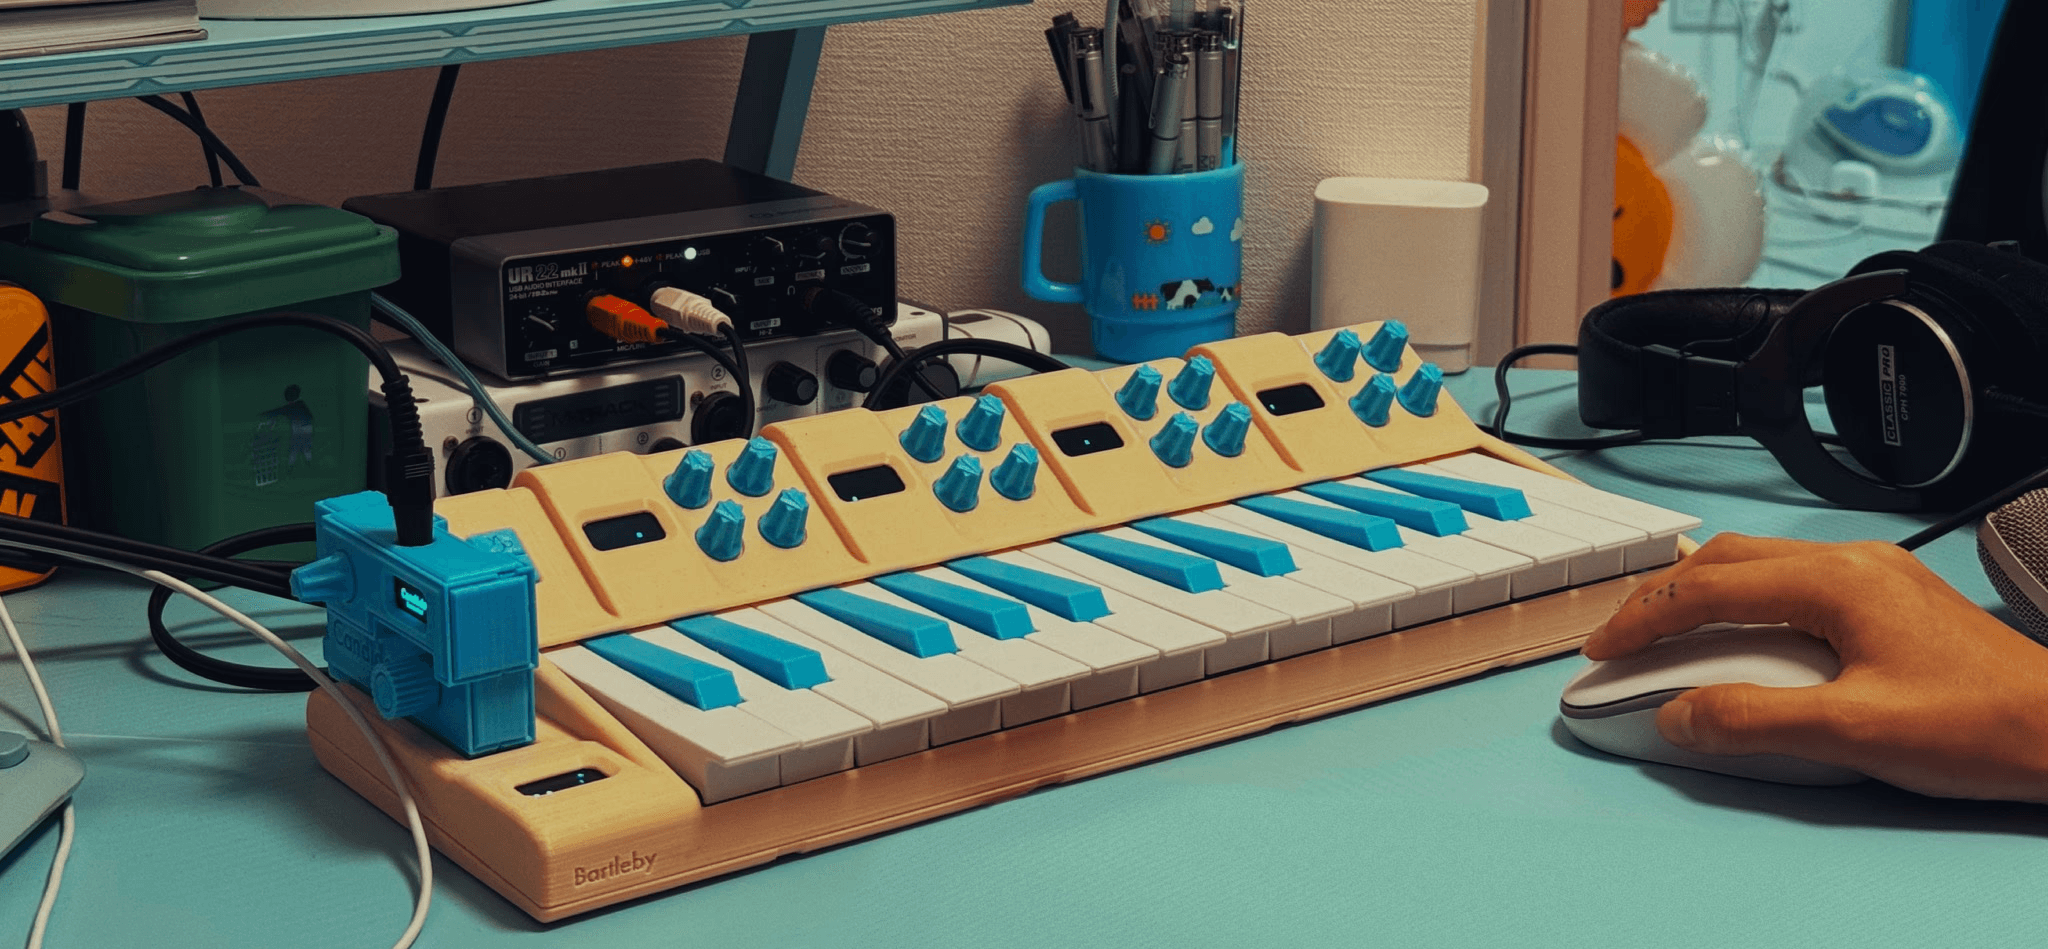
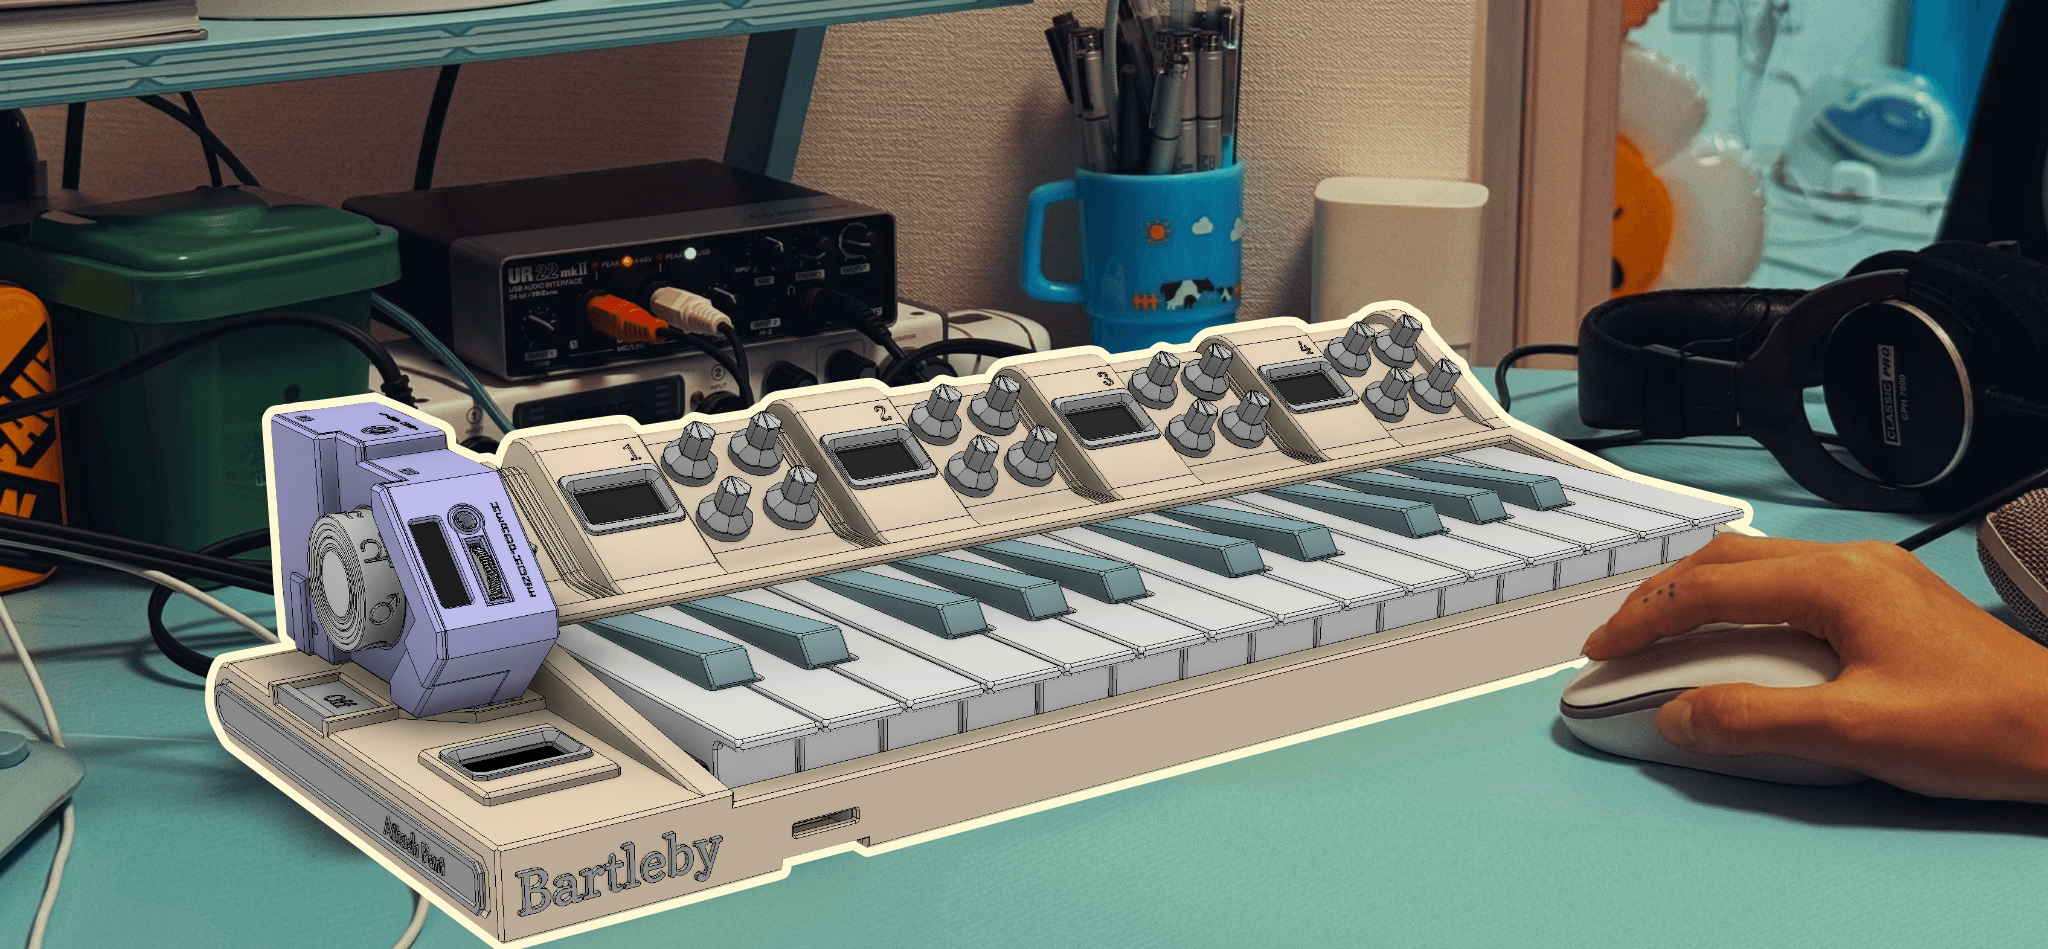
Update product images and add sprite animation support
- Replace diagram images with new square renders with cyan outlines
- Add sprite.js for frame-based animation (currently disabled)
- Update Bartleby features list formatting
- Add sprite player CSS styles

diff --git a/sprite.js b/sprite.js
@@ -1,0 +1,90 @@
+// Sprite Animation Player
+class SpritePlayer {
+  constructor(container) {
+    this.container = container;
+    this.frameCount = parseInt(container.dataset.frameCount);
+    this.framePath = container.dataset.framePath;
+    this.frameExt = container.dataset.frameExt;
+    this.currentFrame = 0;
+    this.frames = [];
+    this.isPlaying = true;
+    this.speed = 33; // ms per frame (30fps)
+    this.intervalId = null;
+
+    this.init();
+  }
+
+  init() {
+    // Preload all frames
+    for (let i = 0; i < this.frameCount; i++) {
+      const img = document.createElement('img');
+      const frameNum = i.toString().padStart(2, '0');
+      img.src = `${this.framePath}${frameNum}${this.frameExt}`;
+      img.alt = `Frame ${i}`;
+      if (i === 0) img.classList.add('active');
+      this.container.appendChild(img);
+      this.frames.push(img);
+    }
+
+    // Start animation
+    this.play();
+
+    // Hover: speed up (disabled for testing)
+    // this.container.addEventListener('mouseenter', () => this.setSpeed(16));
+    // this.container.addEventListener('mouseleave', () => this.setSpeed(33));
+  }
+
+  play() {
+    if (this.intervalId) return;
+    this.intervalId = setInterval(() => this.nextFrame(), this.speed);
+  }
+
+  pause() {
+    if (this.intervalId) {
+      clearInterval(this.intervalId);
+      this.intervalId = null;
+    }
+  }
+
+  setSpeed(ms) {
+    this.speed = ms;
+    this.pause();
+    this.play();
+  }
+
+  nextFrame() {
+    const prevFrame = this.currentFrame;
+    this.currentFrame = (this.currentFrame + 1) % this.frameCount;
+    // Add new frame BEFORE removing old to prevent flicker
+    this.frames[this.currentFrame].classList.add('active');
+    this.frames[prevFrame].classList.remove('active');
+  }
+
+  goToFrame(index) {
+    const prevFrame = this.currentFrame;
+    this.currentFrame = index % this.frameCount;
+    this.frames[this.currentFrame].classList.add('active');
+    this.frames[prevFrame].classList.remove('active');
+  }
+
+  // Seek to frame with animation (rapid advance)
+  seekToFrame(target, seekSpeed = 30) {
+    this.pause();
+    const advance = () => {
+      if (this.currentFrame === target) {
+        this.play();
+        return;
+      }
+      this.nextFrame();
+      setTimeout(advance, seekSpeed);
+    };
+    advance();
+  }
+}
+
+// Initialize all sprite players on page load
+document.addEventListener('DOMContentLoaded', () => {
+  document.querySelectorAll('.sprite-player').forEach(el => {
+    new SpritePlayer(el);
+  });
+});

diff --git a/index.html b/index.html
@@ -26,9 +26,8 @@
         <p class="product-tagline">Two octave MIDI2.0 MPE USB controller</p>
         <div class="product-content">
           <ul class="product-features">
-            <li>Per Key:</li>
-            <li>• Pressure</li>
-            <li>• Pitch Bend</li>
+            <li>Key Pressure</li>
+            <li>Key Pitch Bend</li>
             <li>Octave ↑↓</li>
             <li>Belt Loops</li>
             <li>16 CC knobs</li>
@@ -37,7 +36,7 @@
             <li>USB MIDI2.0</li>
           </ul>
           <div class="product-image">
-            <img src="images/bartleby-diagram.png" alt="Bartleby diagram">
+            <img src="images/bartleby-square.png" alt="Bartleby diagram">
           </div>
         </div>
       </article>
@@ -57,7 +56,10 @@
             <li>USB MIDI2.0</li>
           </ul>
           <div class="product-image">
-            <img src="images/candide-diagram.png" alt="Candide diagram">
+            <img src="images/candide-square.png" alt="Candide diagram">
+            <!-- Sprite animation available:
+            <div class="sprite-player" id="candide-sprite" data-frame-count="61" data-frame-path="images/candide-sprite/frame_" data-frame-ext=".png"></div>
+            -->
           </div>
         </div>
       </article>
@@ -85,5 +87,6 @@
 
   </div>
 
+<script src="sprite.js"></script>
 </body>
 </html>

diff --git a/styles.css b/styles.css
@@ -160,6 +160,29 @@ body {
   height: auto;
 }
 
+/* Sprite Animation */
+.sprite-player {
+  position: relative;
+  width: 100%;
+  max-width: 500px;
+  aspect-ratio: 1;
+}
+
+.sprite-player img {
+  position: absolute;
+  top: 0;
+  left: 0;
+  width: 100%;
+  height: 100%;
+  object-fit: contain;
+  opacity: 0;
+  /* No transition - instant swap to prevent flicker */
+}
+
+.sprite-player img.active {
+  opacity: 1;
+}
+
 .product h2 {
   font-size: 3.5rem;
   font-weight: 400;
